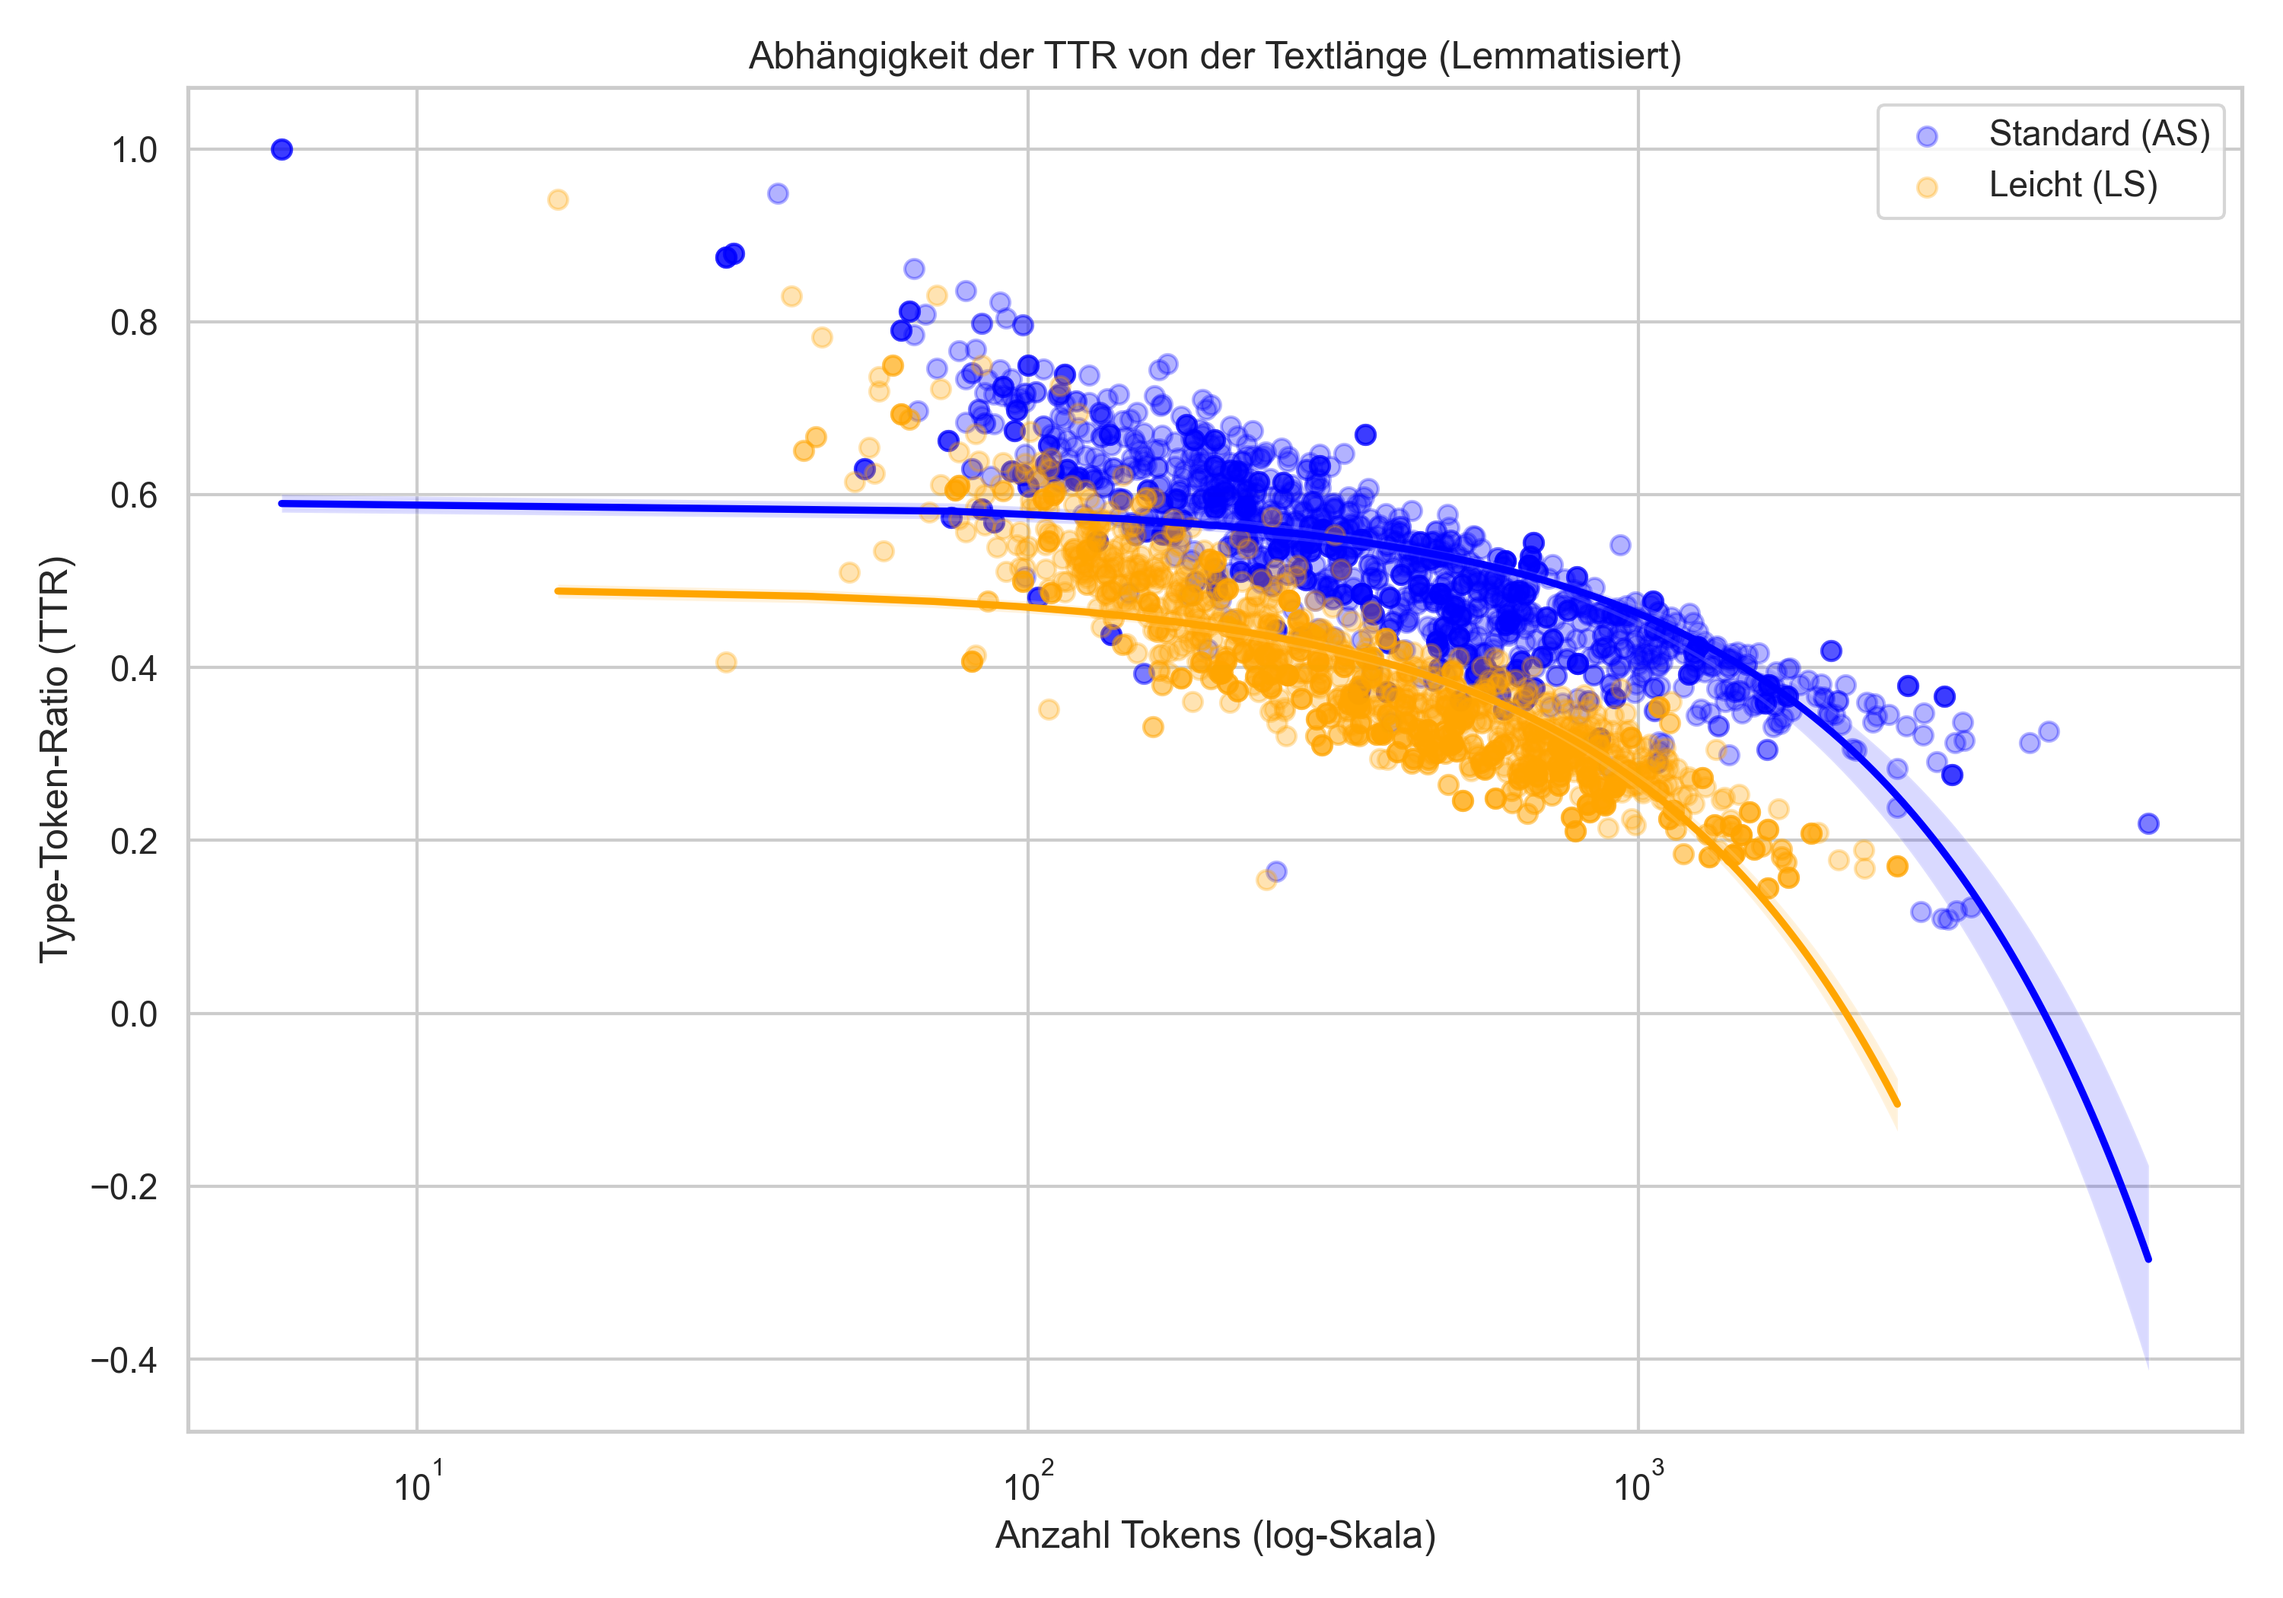
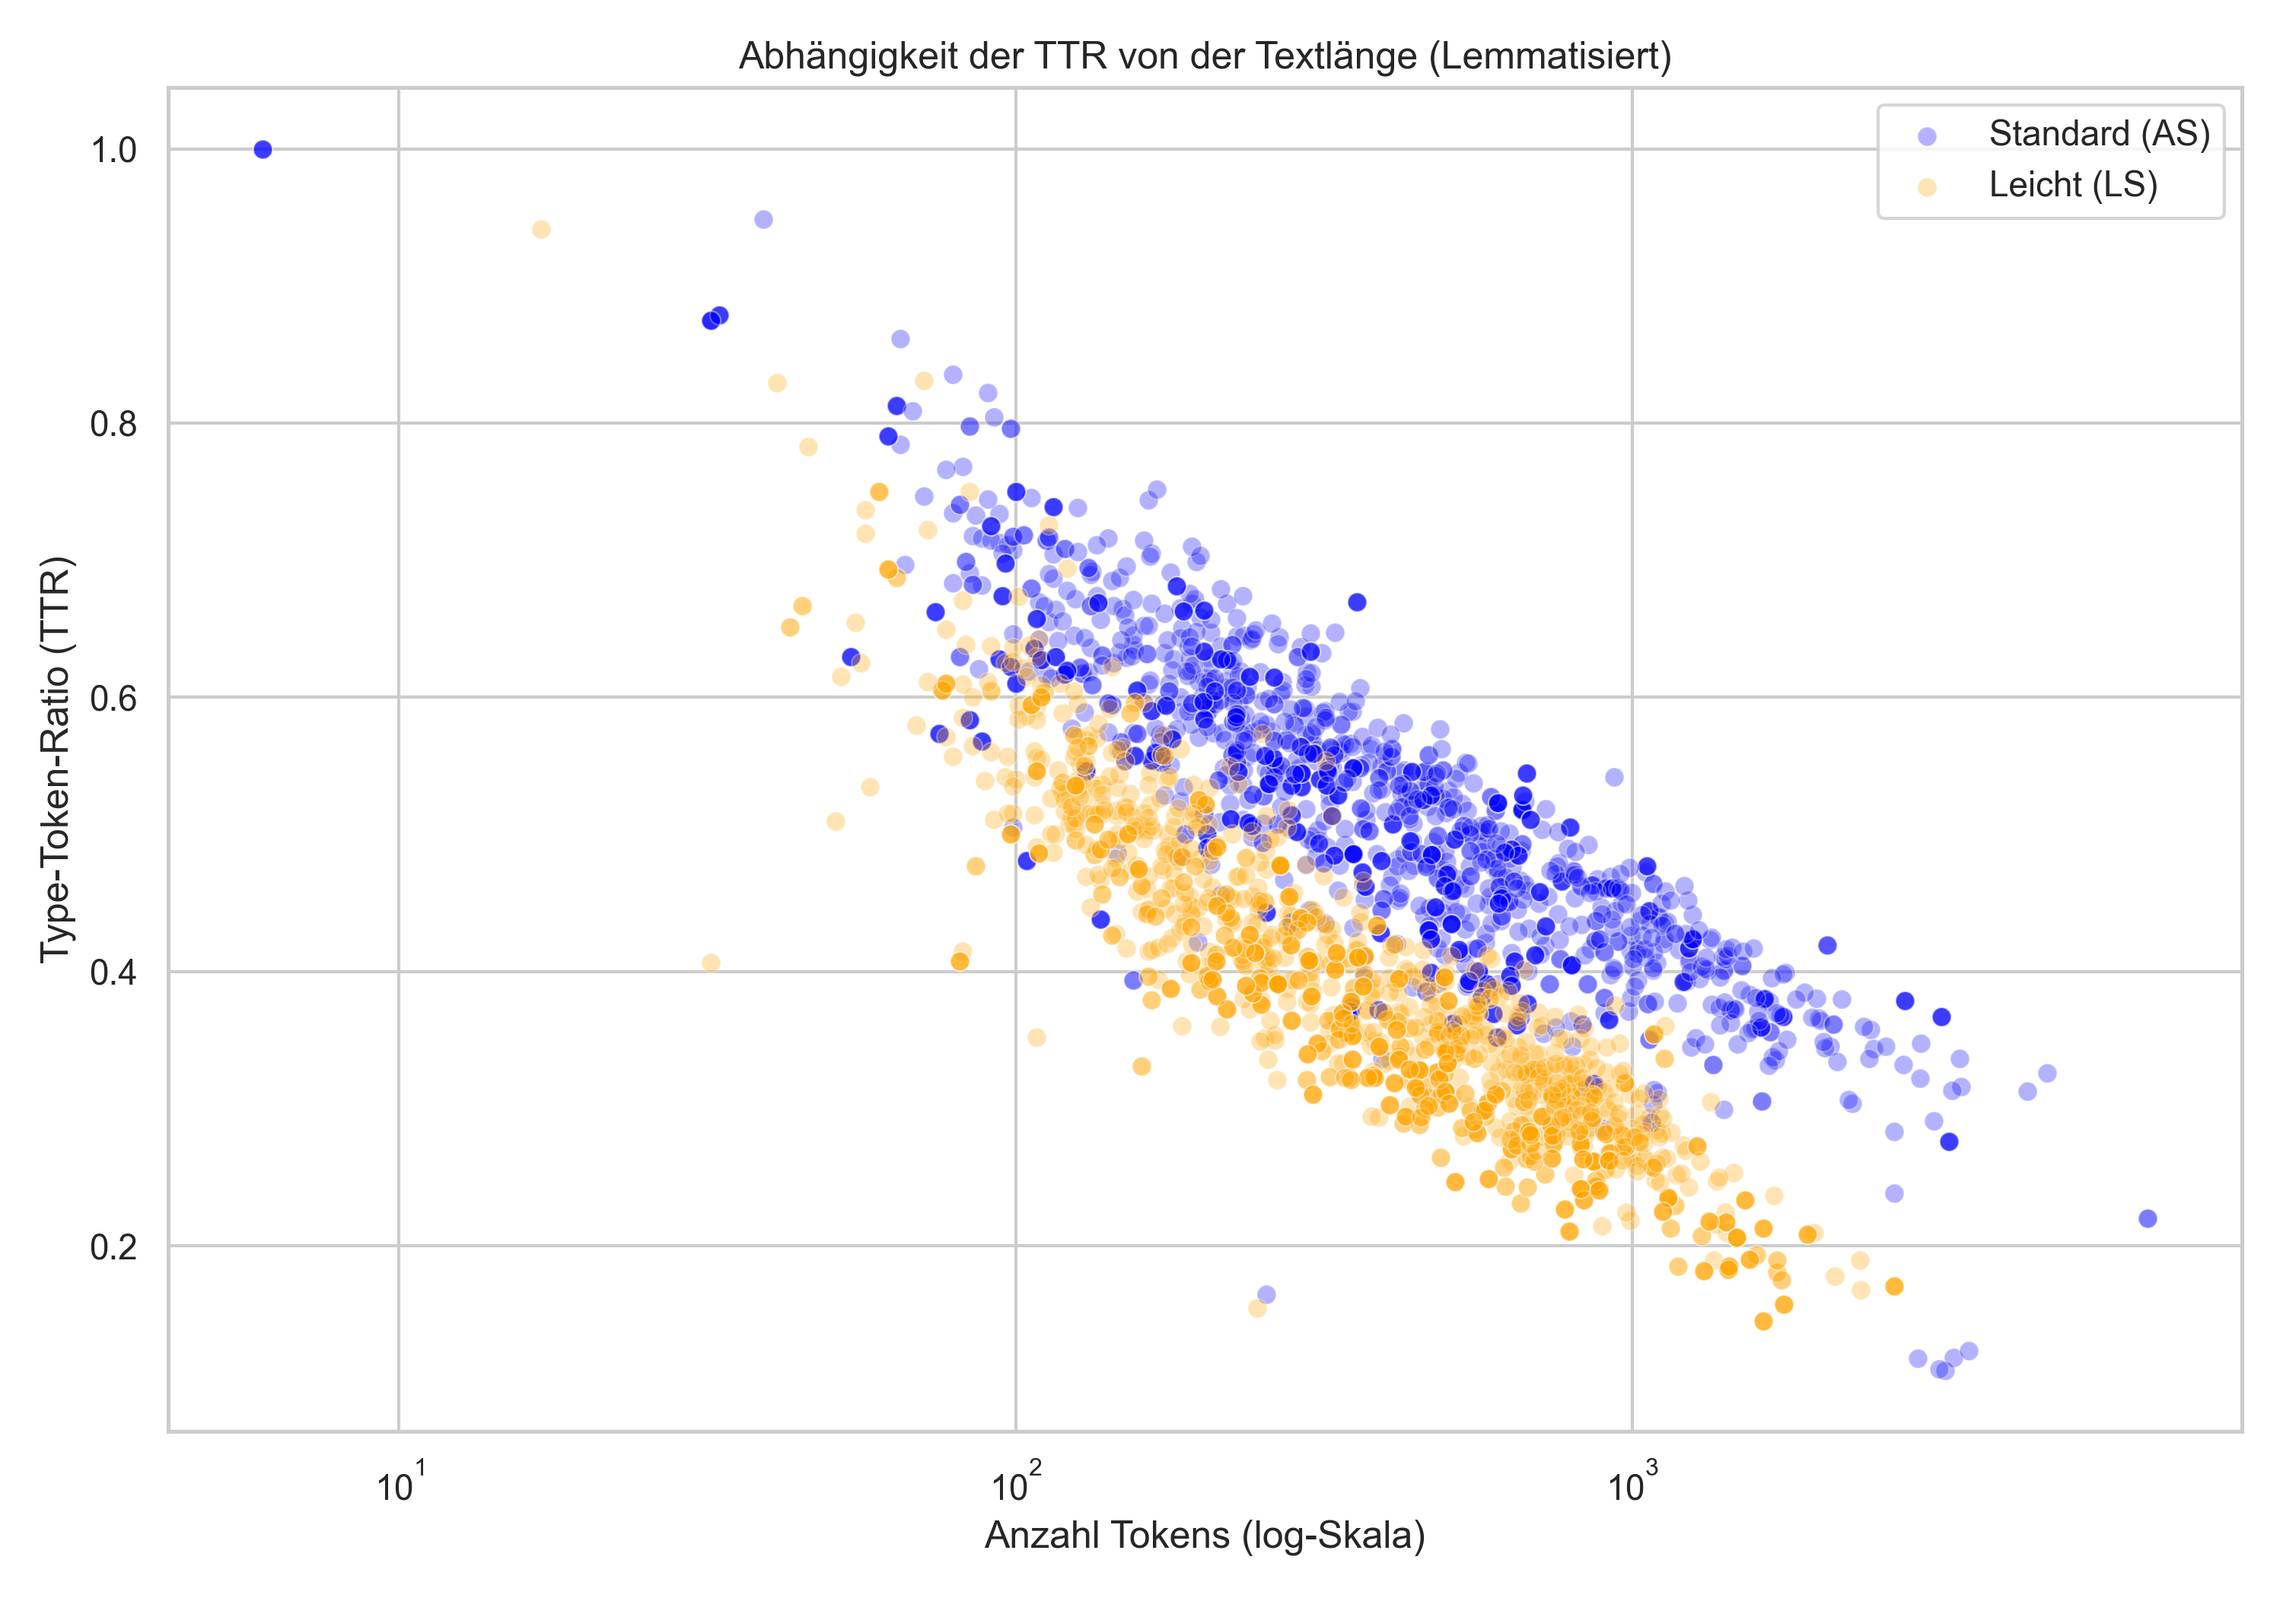
feat: update ttr visualization to scatter plot

diff --git a/scripts/visualize_ttr.py b/scripts/visualize_ttr.py
@@ -35,11 +35,11 @@ def visualize_ttr(csv_path, output_dir):
     plt.figure(figsize=(10, 7))
     
     # Scatter for AS
-    sns.regplot(data=df, x='as_tokens', y='as_ttr', scatter_kws={'alpha':0.3}, 
-                label='Standard (AS)', color='blue', x_ci=None)
+    sns.scatterplot(data=df, x='as_tokens', y='as_ttr', alpha=0.3, 
+                label='Standard (AS)', color='blue')
     # Scatter for LS
-    sns.regplot(data=df, x='ls_tokens', y='ls_ttr', scatter_kws={'alpha':0.3}, 
-                label='Leicht (LS)', color='orange', x_ci=None)
+    sns.scatterplot(data=df, x='ls_tokens', y='ls_ttr', alpha=0.3, 
+                label='Leicht (LS)', color='orange')
     
     plt.xscale('log') # Log scale since token counts vary wildly
     plt.xlabel('Anzahl Tokens (log-Skala)')
